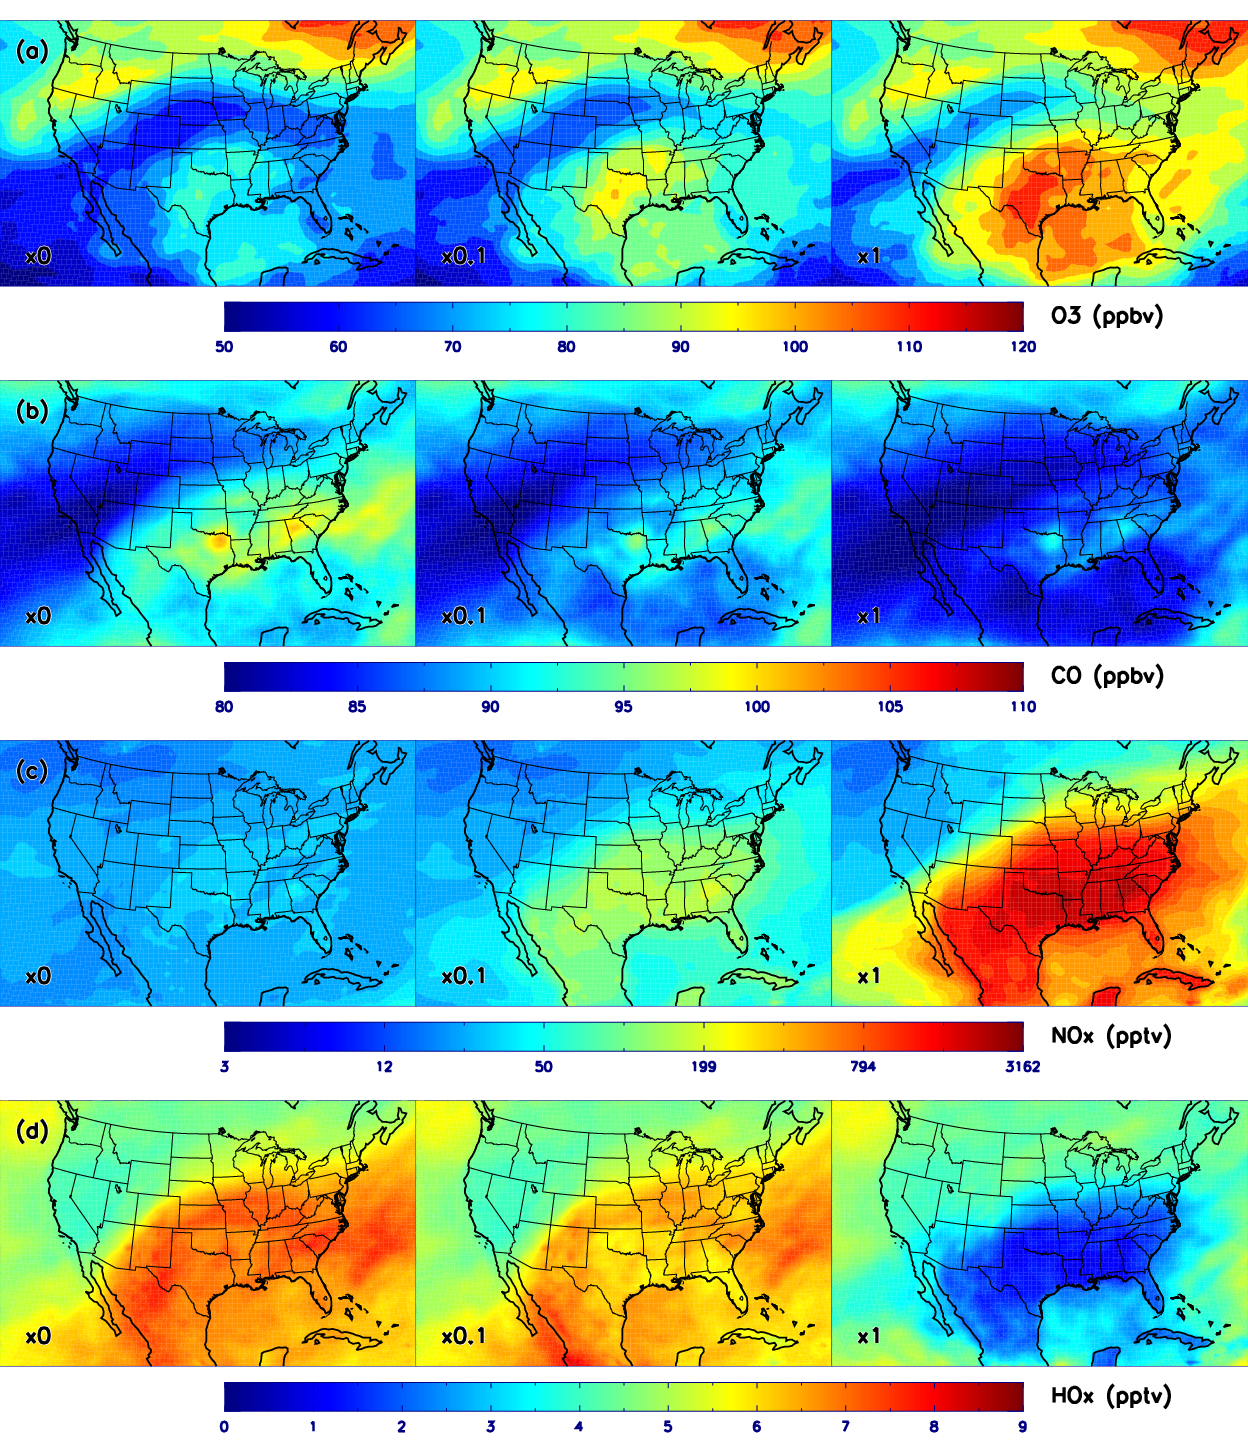
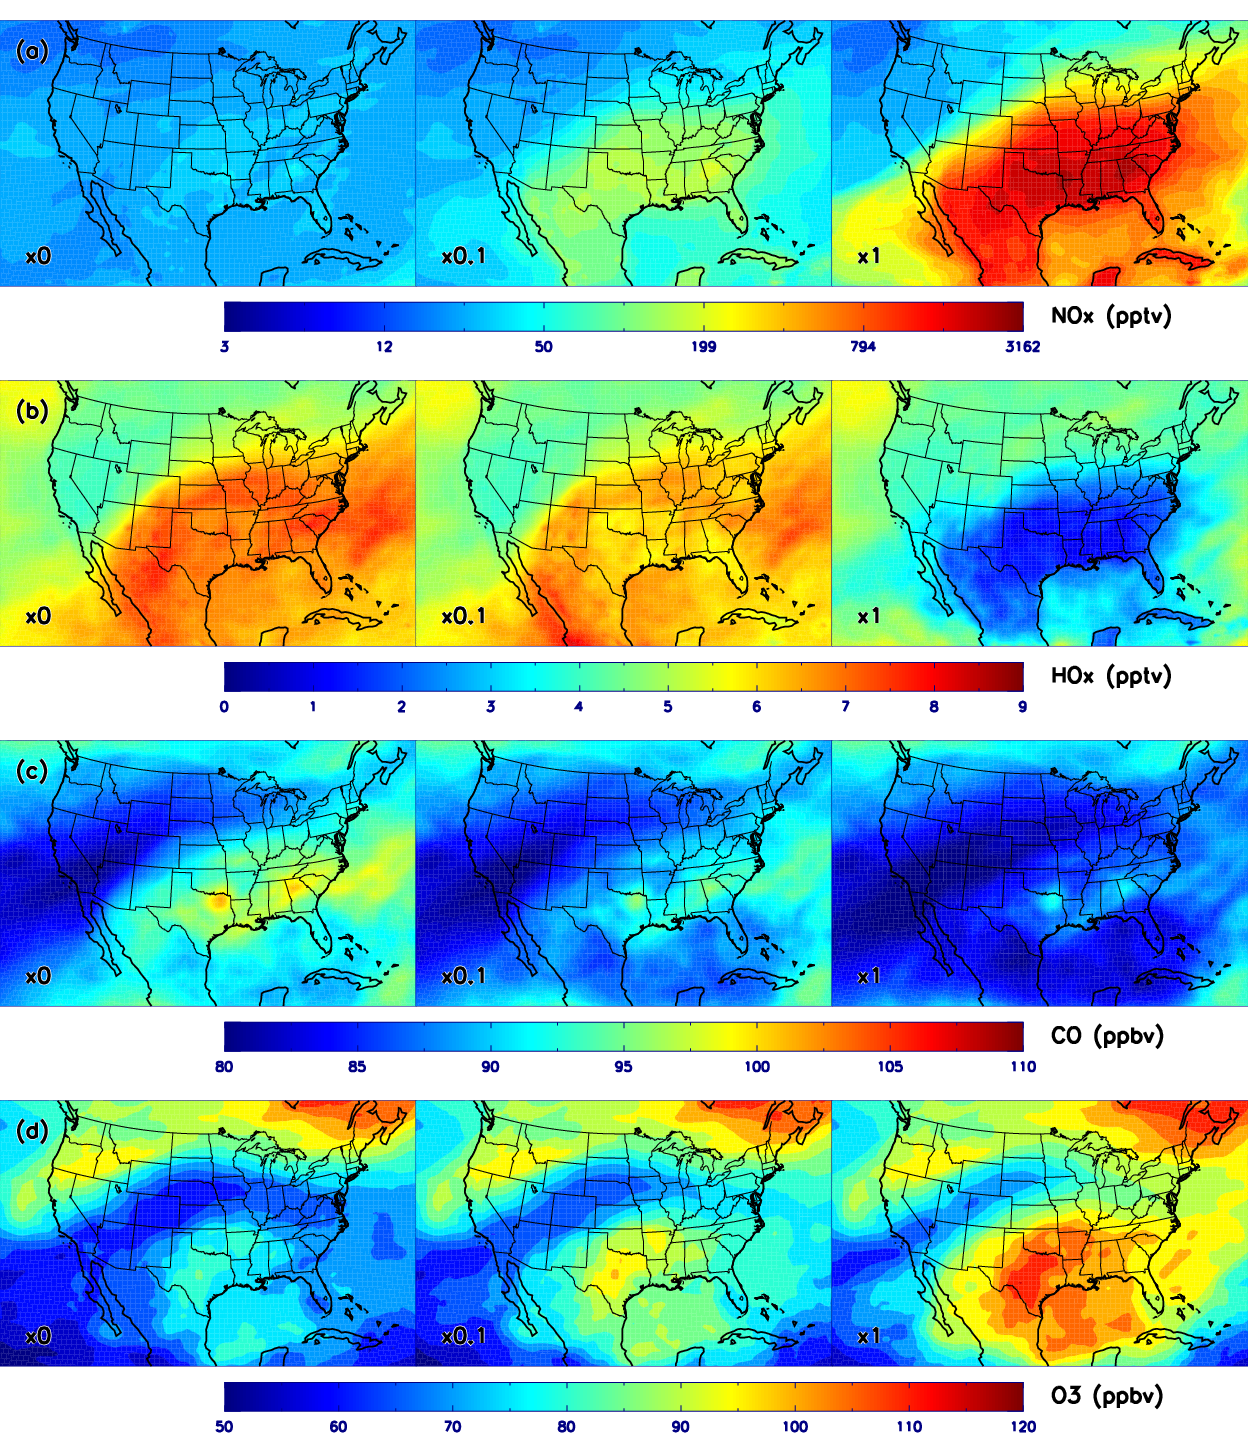
A few changes to figures
Corrected label for biogenic emission vertical profiles
Rearranged species for lightning sensitivity maps and updated figure

diff --git a/Chapter_2006/2006_5.tex b/Chapter_2006/2006_5.tex
@@ -313,7 +313,7 @@ except with lightning tuning parameter set to $0\times$ and $0.1\times$ to repre
 resulting spatial distributions of several species at 300\,\unit{hPa} are shown in Figure~\ref{fig:2006/ltngsens_map}.
 
 \figuremacroW{sens/ltngsens.png}{Upper tropospheric sensitivity to lightning}{\label{fig:2006/ltngsens_map}
-Model simulated mean {\bf(a)} \chem{O_3}, {\bf(b)} \chem{CO}, {\bf(c)} \chem{NO_x}, and {\bf(d)} \chem{HO_x} for $0\times$ (left column), $0.1\times$ (center column), and $1\times$ (right column)
+Model simulated mean {\bf(a)} \chem{NO_x}, {\bf(b)} \chem{HO_x}, {\bf(c)} \chem{CO}, and {\bf(d)} \chem{O_3} for $0\times$ (left column), $0.1\times$ (center column), and $1\times$ (right column)
 lightning flash rate at 300\,\unit{hPa} for August. Note that \chem{NO_x} is contoured in the $\log$-scale.}{0.9}
 
 % NOx
@@ -565,7 +565,7 @@ column through convective transport and chemistry.
 	\begin{figure}[t!]
 		\centering
 		\includegraphics[width=1.0\textwidth]{sens/biosens_vert}
-		\caption[Vertical profiles for sensitivity to anthropogenic emission]{\textbf{Vertical profiles for sensitivity to
+		\caption[Vertical profiles for sensitivity to biogenic emission]{\textbf{Vertical profiles for sensitivity to
 		anthropogenic emission} --- Same as Fig.~\ref{fig:2006/ltngsens_vertical}, but for biogenic emission.
 		\label{fig:2006/biosens_vert} }\vspace{-.3in}
 	\end{figure}
